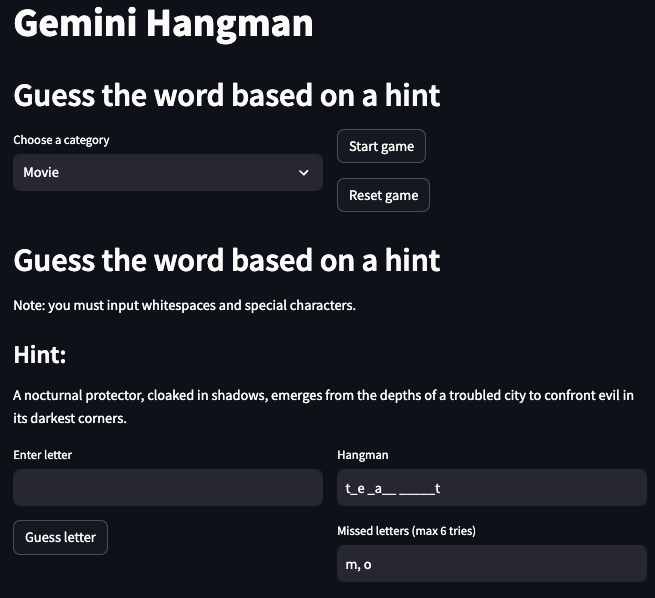
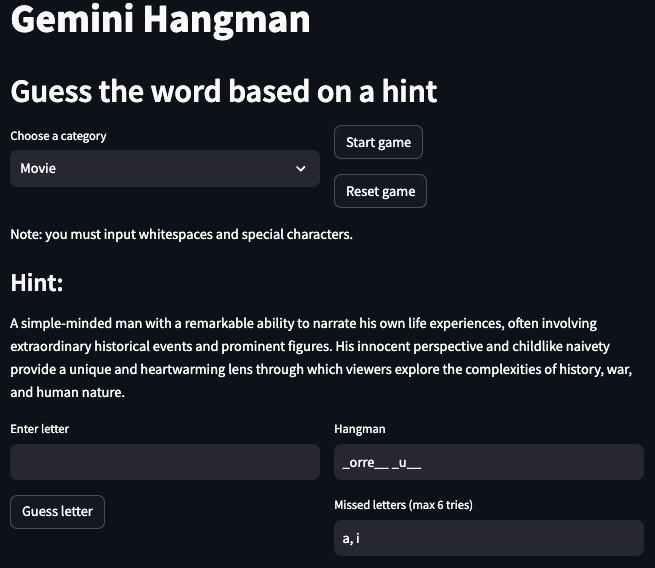
Streamlit interface fix

diff --git a/src/app.py b/src/app.py
@@ -77,7 +77,6 @@ if reset_btn:
 
 st.markdown(
     """
-    ## Guess the word based on a hint
     Note: you must input whitespaces and special characters.
     """
 )

diff --git a/src/app_os.py b/src/app_os.py
@@ -97,7 +97,6 @@ if reset_btn:
 
 st.markdown(
     """
-    ## Guess the word based on a hint
     Note: you must input whitespaces and special characters.
     """
 )
